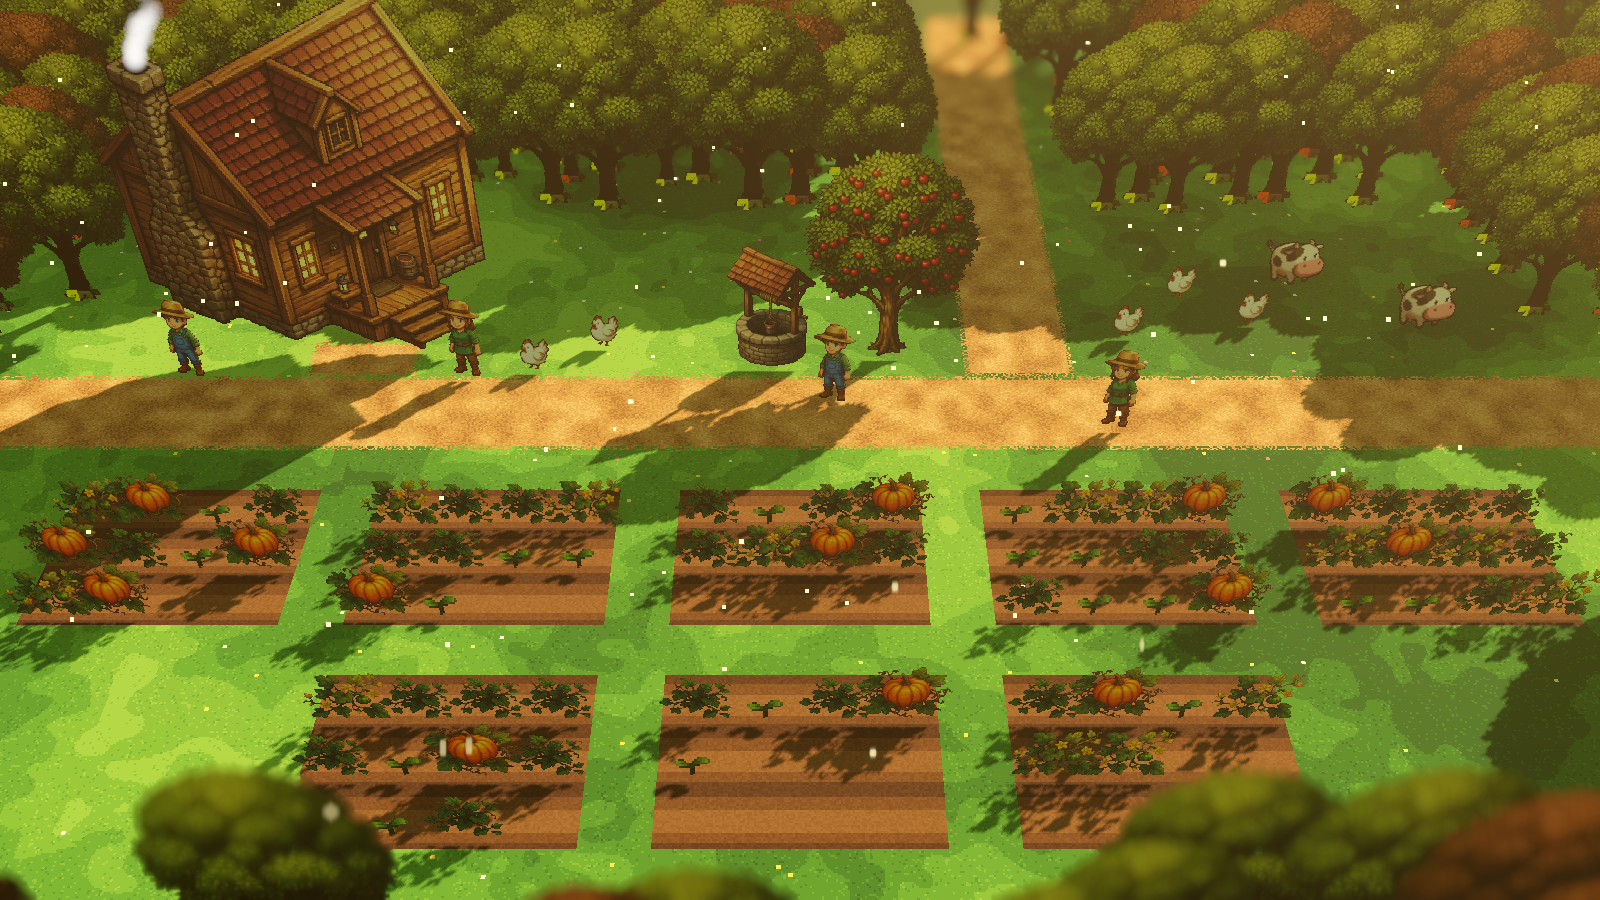
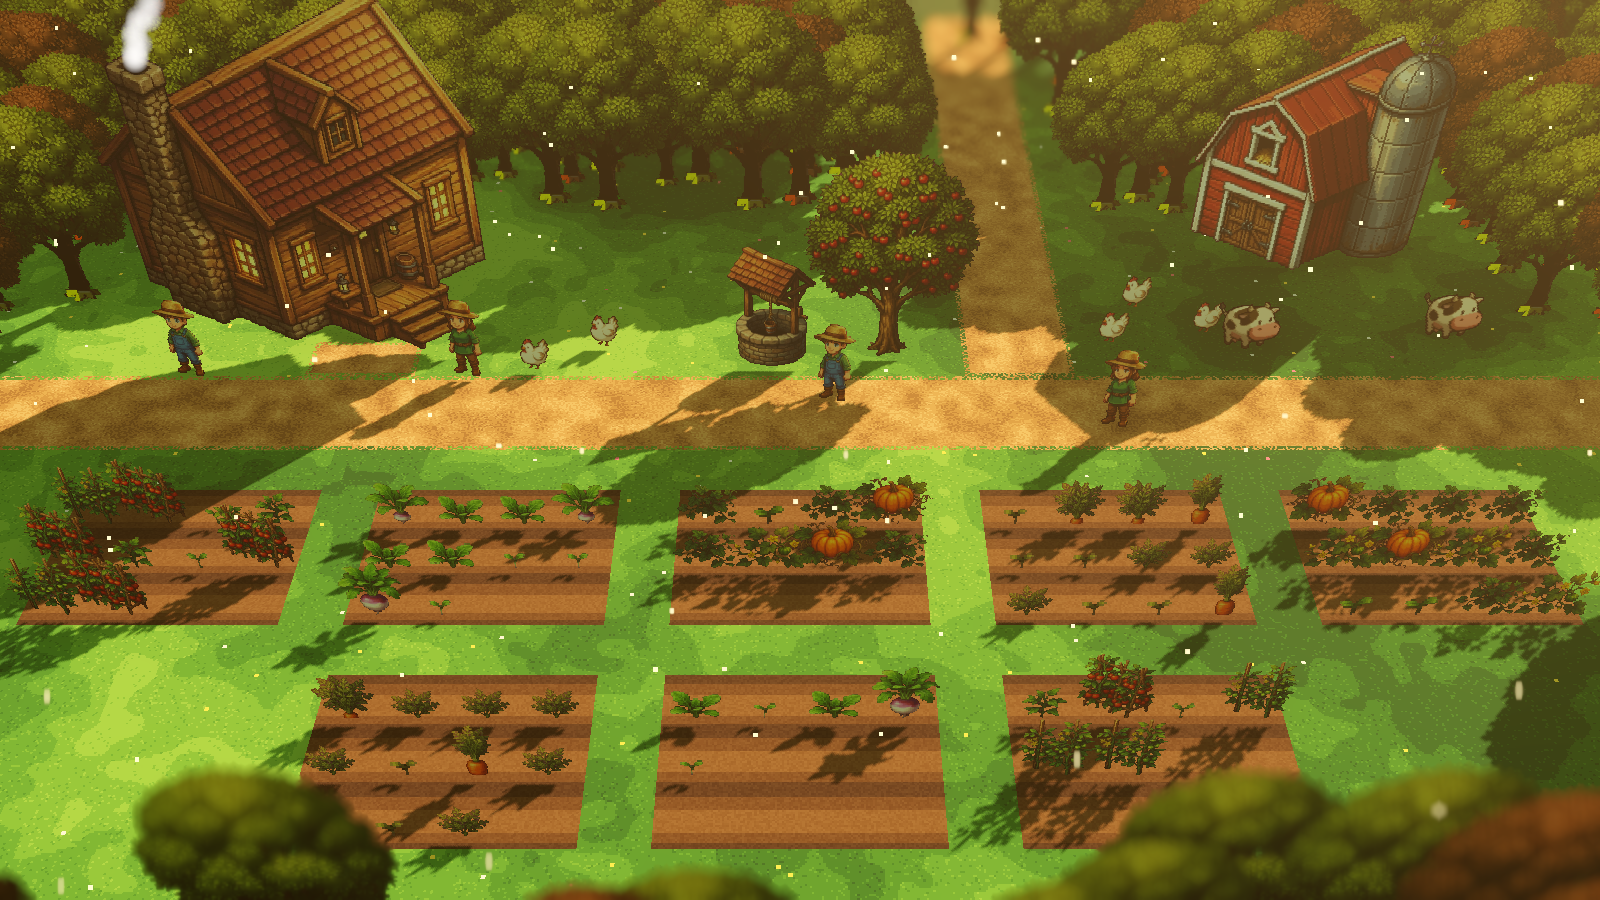
Turnip, carrot and tomato fields beside the pumpkins, and the barn
Each field grows one crop, so directories read apart. The carrot row came
in six stages; seedling, bushy, first carrot and ripe are kept. The barn
and silo stand in the north-east with the animals in front.

Claude-Session: https://claude.ai/code/session_01AS1pBBMpmbqR6jmFHHvMbg

diff --git a/farm/README.md b/farm/README.md
@@ -7,8 +7,8 @@ glow, dust and chimney smoke. Not wired to the proxy yet — the world is placed
 Run it with Godot 4.7 (Forward+): `godot --path farm`. A still: `godot --path farm -- --shot`
 writes `farm/shot.png` after 40 frames.
 
-Art in `art/`: `farmhouse`, `well`, `apple_tree`, `pumpkin_0`..`3`, `chicken` are the owner's
-generated sprites, cut from a magenta backdrop and brought down to their own pixel grid.
+Art in `art/`: `farmhouse`, `barn`, `well`, `apple_tree`, `chicken`, `cow`, and `pumpkin`, `turnip`,
+`carrot`, `tomato` at stages `_0`..`_3` are the owner's generated sprites, cut from a magenta backdrop and brought down to their own pixel grid.
 `tree_green` and `tree_autumn` are the apple tree with its apples painted out, the second with its
 leaves turned amber. `villager_a` and `villager_b` are the owner's two farmers, and `cow` is theirs too.
 `ground.png` is painted by `tools/ground.py`, which holds the lane, the road and the eight plots.
